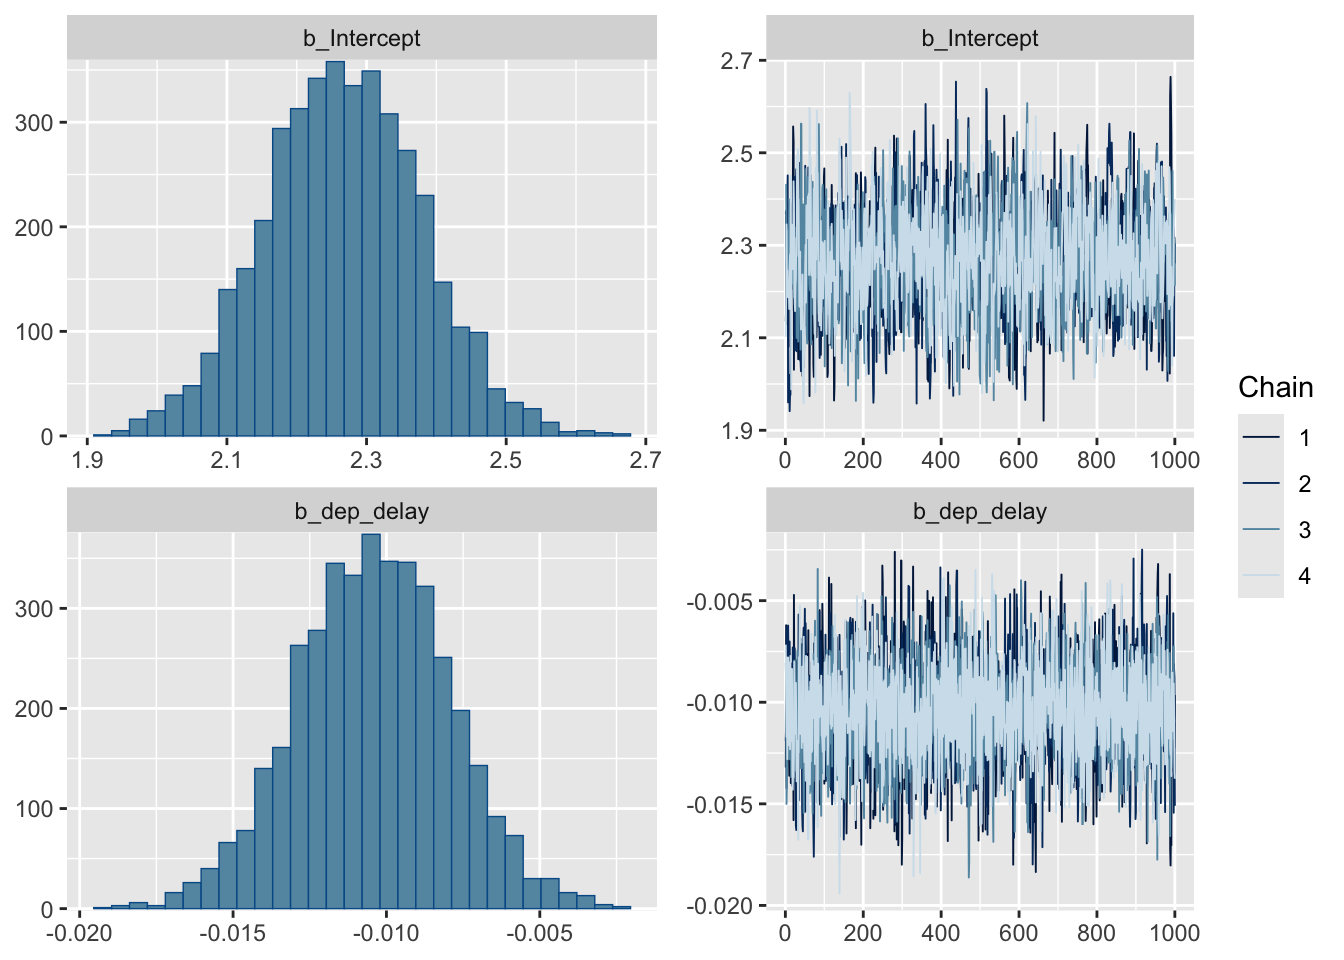
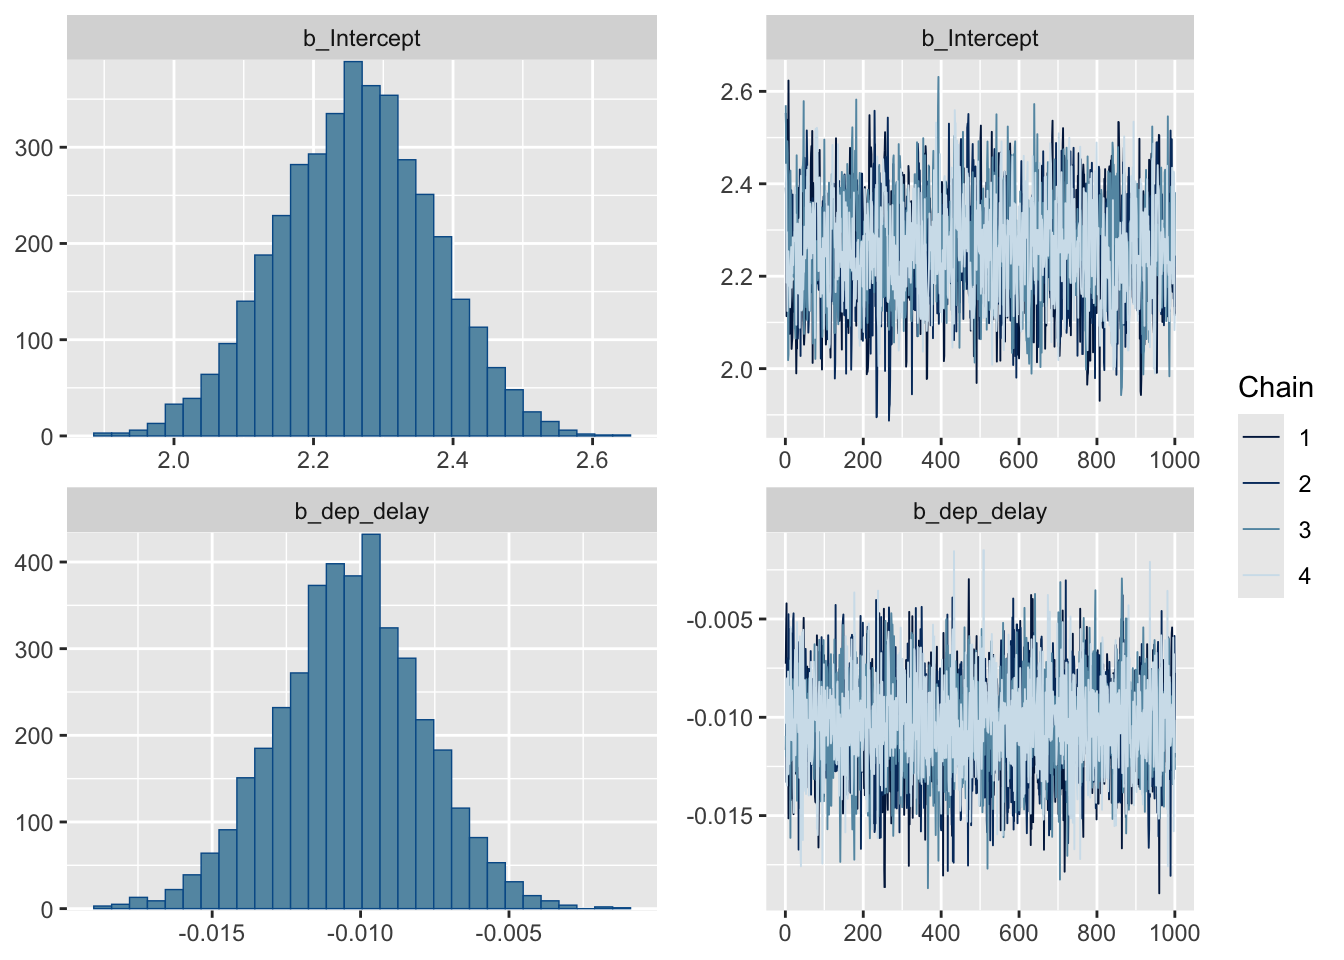
resume

diff --git a/docs/posts/first-post/index.html b/docs/posts/first-post/index.html
@@ -344,7 +344,7 @@ The following object is masked from 'package:dplyr':
 <span id="cb18-7"><a href="#cb18-7" aria-hidden="true" tabindex="-1"></a>  <span class="fu">labs</span>(<span class="at">x =</span> <span class="st">"Departure Delay (minutes)"</span>, <span class="at">y =</span> <span class="st">"Predicted Satisfaction"</span>,</span>
 <span id="cb18-8"><a href="#cb18-8" aria-hidden="true" tabindex="-1"></a>       <span class="at">title =</span> <span class="st">"Prior Predictive Distribution of Satisfaction"</span>)</span></code><button title="Copy to Clipboard" class="code-copy-button"><i class="bi"></i></button></pre></div>
 <div class="cell-output cell-output-stderr">
-<pre><code>Warning: Removed 248 rows containing missing values or values outside the scale range
+<pre><code>Warning: Removed 299 rows containing missing values or values outside the scale range
 (`geom_point()`).</code></pre>
 </div>
 <div class="cell-output-display">
@@ -393,8 +393,8 @@ Formula: satisfaction ~ dep_delay
 
 Regression Coefficients:
           Estimate Est.Error l-95% CI u-95% CI Rhat Bulk_ESS Tail_ESS
-Intercept     2.27      0.11     2.05     2.49 1.00     1596     1480
-dep_delay    -0.01      0.00    -0.02    -0.01 1.00     3077     2626
+Intercept     2.26      0.11     2.04     2.47 1.00     1623     1801
+dep_delay    -0.01      0.00    -0.02    -0.01 1.00     3353     2744
 
 Draws were sampled using sampling(NUTS). For each parameter, Bulk_ESS
 and Tail_ESS are effective sample size measures, and Rhat is the potential
@@ -413,12 +413,12 @@ scale reduction factor on split chains (at convergence, Rhat = 1).</code></pre>
 <div class="sourceCode cell-code" id="cb29"><pre class="sourceCode r code-with-copy"><code class="sourceCode r"><span id="cb29-1"><a href="#cb29-1" aria-hidden="true" tabindex="-1"></a>ci <span class="ot">&lt;-</span> <span class="fu">posterior_summary</span>(fit, <span class="at">probs =</span> <span class="fu">c</span>(<span class="fl">0.025</span>, <span class="fl">0.975</span>))</span>
 <span id="cb29-2"><a href="#cb29-2" aria-hidden="true" tabindex="-1"></a><span class="fu">print</span>(ci)</span></code><button title="Copy to Clipboard" class="code-copy-button"><i class="bi"></i></button></pre></div>
 <div class="cell-output cell-output-stdout">
-<pre><code>                 Estimate   Est.Error          Q2.5         Q97.5
-b_Intercept    2.26732069 0.112108577    2.04946764  2.488897e+00
-b_dep_delay   -0.01043595 0.002497554   -0.01540595 -5.615821e-03
-Intercept      2.17444076 0.106513164    1.96289382  2.383456e+00
-lprior        -2.36751297 0.039441618   -2.44648664 -2.290953e+00
-lp__        -332.41472419 1.012198630 -335.16916223 -3.314077e+02</code></pre>
+<pre><code>                 Estimate  Est.Error          Q2.5         Q97.5
+b_Intercept    2.26022015 0.11071418    2.03990324    2.47450375
+b_dep_delay   -0.01035594 0.00244737   -0.01523171   -0.00555282
+Intercept      2.16805232 0.10500398    1.96129877    2.37251289
+lprior        -2.36513574 0.03876649   -2.44222131   -2.29039920
+lp__        -332.38085154 1.01286278 -335.02510622 -331.40185138</code></pre>
 </div>
 </div>
 </section>
@@ -479,8 +479,8 @@ Formula: satisfaction ~ dep_delay
 
 Regression Coefficients:
           Estimate Est.Error l-95% CI u-95% CI Rhat Bulk_ESS Tail_ESS
-Intercept     2.27      0.11     2.05     2.50 1.00     1782     2037
-dep_delay    -0.01      0.00    -0.02    -0.01 1.00     3466     2778
+Intercept     2.27      0.11     2.05     2.49 1.00     1628     1719
+dep_delay    -0.01      0.00    -0.02    -0.01 1.00     3969     2794
 
 Draws were sampled using sampling(NUTS). For each parameter, Bulk_ESS
 and Tail_ESS are effective sample size measures, and Rhat is the potential
@@ -504,11 +504,11 @@ scale reduction factor on split chains (at convergence, Rhat = 1).</code></pre>
 <span id="cb40-2"><a href="#cb40-2" aria-hidden="true" tabindex="-1"></a><span class="fu">print</span>(ci)</span></code><button title="Copy to Clipboard" class="code-copy-button"><i class="bi"></i></button></pre></div>
 <div class="cell-output cell-output-stdout">
 <pre><code>                 Estimate   Est.Error          Q2.5         Q97.5
-b_Intercept    2.27192332 0.112609920    2.05478994  2.496768e+00
-b_dep_delay   -0.01048798 0.002438221   -0.01524473 -5.763307e-03
-Intercept      2.17858029 0.107451774    1.97224973  2.389236e+00
-lprior        -4.85741261 0.002347958   -4.86216966 -4.853065e+00
-lp__        -334.89013320 1.021126254 -337.70403055 -3.338989e+02</code></pre>
+b_Intercept    2.27149091 0.110279718    2.05240452  2.493390e+00
+b_dep_delay   -0.01042282 0.002423073   -0.01510531 -5.685154e-03
+Intercept      2.17872784 0.104972775    1.97247337  2.396715e+00
+lprior        -4.85741301 0.002290826   -4.86235403 -4.853073e+00
+lp__        -334.86096395 0.982931151 -337.44441811 -3.338953e+02</code></pre>
 </div>
 </div>
 <p>After setting our own priors for our model, we got results that we the same. The $\beta_0$ value was the exact same of 2.27. The $\beta_1$ values or the slope, were the exact same at -0.01. The 95% credible interval for the intercept is approximately [2.06, 2.48], indicating that we are 95% confident that the true intercept lies within this range. This was pretty much the same as the 95% confidence interval for brm’s priors that was [2.06, 2.49]. The 95% credible interval for `dep_delay` is approximately [-0.016, -0.006], there is a 95% probability that the true value from dep_delay is within the interval. This is sightly different from the 95% credible interval for brm’s priors that was [-0.010, 0.003]. This is probably because brm chose a flat prior for the slope, but we picked one that included some prior knowledge on the slope. Overall, the prior had very little influence on the posterior distribution. So the model is not very sensitivity to the prior.</p>

diff --git a/docs/projects.html b/docs/projects.html
@@ -160,7 +160,7 @@ ul.task-list li input[type="checkbox"] {
 
 <div class="quarto-listing quarto-listing-container-default" id="listing-listing">
 <div class="list quarto-listing-default">
-<div class="quarto-post image-right" data-index="0" data-listing-file-modified-sort="1718242833847" data-listing-reading-time-sort="9.235">
+<div class="quarto-post image-right" data-index="0" data-listing-file-modified-sort="1718244838181" data-listing-reading-time-sort="9.245">
 <div class="thumbnail">
 <a href="./posts/second-post/index.html">
 <div class="thumbnail-image">
@@ -177,7 +177,7 @@ Naive Bayes Classification
 
 </div>
 <div class="listing-description">
-We will use naive Bayes classification…
+In this file, will use naive Bayes classification…
 </div>
 </a>
 </div>

diff --git a/docs/posts/second-post/index.html b/docs/posts/second-post/index.html
@@ -262,7 +262,7 @@ The following objects are masked from 'package:stats':
 </div>
 <section id="tasks" class="level1">
 <h1>Tasks</h1>
-<p>We will use naive Bayes classification to classify a person’s opinion on climate change into one of the following categories, based on characteristics including political party, age (years), and income ($ thousands):</p>
+<p>In this file, will use naive Bayes classification to classify a person’s opinion on climate change into one of the following categories, based on characteristics including political party, age (years), and income ($ thousands):</p>
 <ul>
 <li>Climate change is not real at all</li>
 <li>Climate change is real but not caused by people</li>

diff --git a/docs/index.html b/docs/index.html
@@ -119,6 +119,10 @@ ul.task-list li input[type="checkbox"] {
     <i class="bi bi-linkedin"></i>
      <span class="about-link-text">LinkedIn</span>
   </a>
+  <a href="/Website/files/JoseGarcia_Resume.pdf" class="about-link">
+    <i class="bi bi-file-earmark-pdf-fill"></i>
+     <span class="about-link-text">Resume</span>
+  </a>
 </div>
 </div>
  <!-- /main -->
